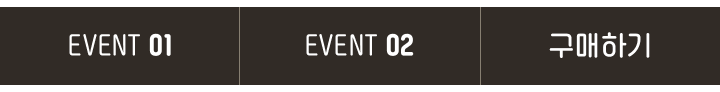
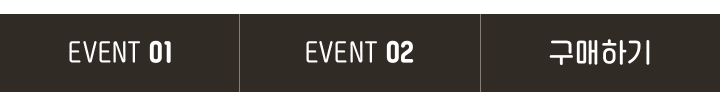
스크롤

diff --git a/src/js/index.js b/src/js/index.js
@@ -24,36 +24,38 @@ $(function () {
     
     $(window).scroll(function () {
         var sc = $(this).scrollTop();
-        var scrollH1 = $('.event01-1').offset().top ;
+        var scrollH1 = $('.event01-1').offset().top - 100;
         var scrollH2 = $('.event02-1').offset().top ;
 
              $("header .gnb").removeClass("nav3");
-        if (sc > 150) {
+
+        
+            if (sc > 150) {
             $("nav").addClass("fixed");
             $(".gnb2").addClass("on");
             $(".main-kv").addClass("gap");
     
-        } else {
+        }else {
             $("nav").removeClass("fixed");
              $(".gnb2").removeClass("on");
               $(".main-kv").removeClass("gap");
         }
         
-            if ($(document).scrollTop() < scrollH1) {
-            $("header .gnb").addClass("nav1");
+        
+        if ($(document).scrollTop() < scrollH1) {
+            $("header .gnb").addClass("nav0");
     
         }
-        
-        if ($(document).scrollTop() < scrollH2) {
+             if ($(document).scrollTop() > scrollH1) {
             $("header .gnb").addClass("nav1");
             $("header .gnb").removeClass("nav2");
         }
-
-        if ($(document).scrollTop() > scrollH2) {
+        
+             if ($(document).scrollTop() > scrollH2) {
             $("header .gnb").addClass("nav2");
         }
     });
-    
+   
     
     
     

diff --git a/src/css/index.css b/src/css/index.css
@@ -834,6 +834,10 @@ footer .txt p:nth-child(2) {
     display: block !important;
 }
 
+
+.nav0{
+    background: url(../img/nav.png) no-repeat;
+}
 .nav1 {
     background: url(../img//nav1.png)
 }
@@ -920,7 +924,8 @@ footer .txt p:nth-child(2) {
 
     .gnb {
         width: 100vw;
-        height: 12.7955vw
+        height: 12.7955vw;
+            background-size: contain;
     }
 
     .nav1,

diff --git a/index.html b/index.html
@@ -246,7 +246,7 @@
             <h1 class="logo">
                 <a href="index.html"><img src="src/img/logo.png" alt=""></a>
             </h1>
-            <nav class="gnb nav1">
+            <nav class="gnb nav0">
                 <a href="#" class="evt01"></a>
                 <a href="#" class="evt02"></a>
                 <a href="http://item.gmarket.co.kr/Item?goodscode=1129040015
